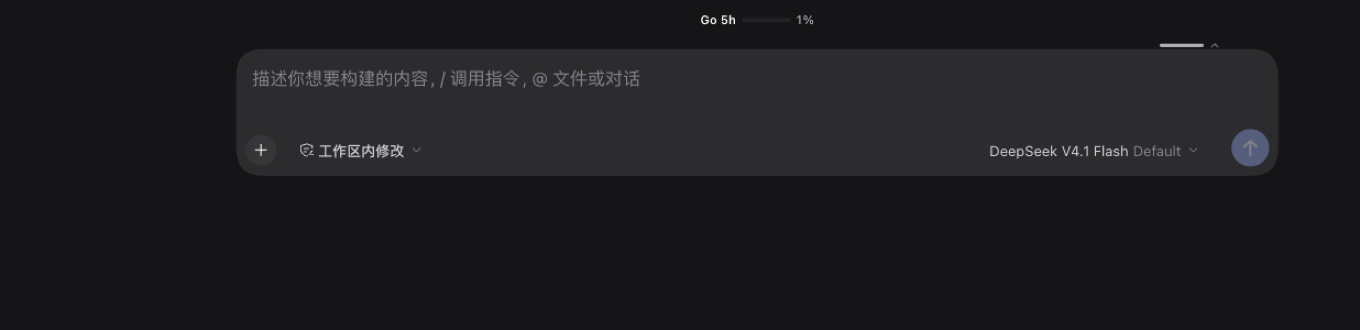
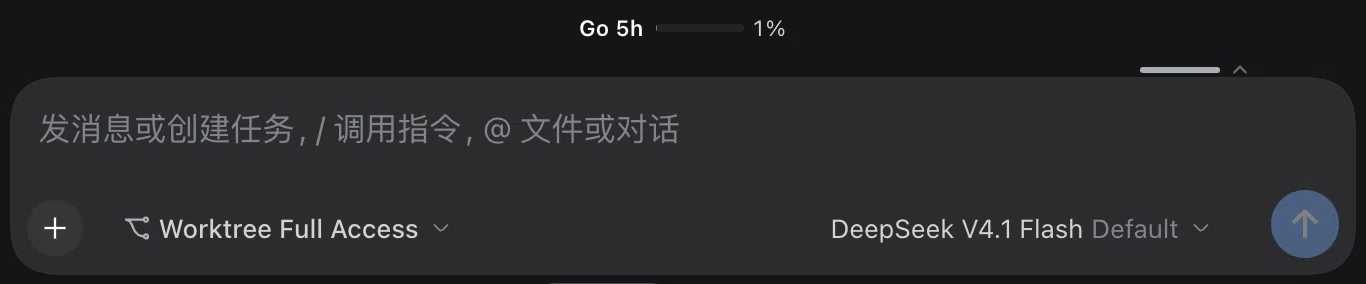
docs(assets): use the screenshots captured from the actual desktop window
Replace the ego-lite captures with 子龙's real-window shots: single, multiline,
single collapsed, multiline collapsed, and the Settings page. The history
browsing image is withdrawn until a real one is available.

diff --git a/docs/RELEASE-CHECKLIST-0.2.0.md b/docs/RELEASE-CHECKLIST-0.2.0.md
@@ -56,7 +56,7 @@
 - [x] 自检：`CHECK_SITE_SKIP_CROSS=dsh-session-titler node scripts/check-site.mjs` → **0 error / 1 warning**。跳过原因：邻居 `dsh-session-titler` 站点 0.2.1 / package.json 0.2.2（另一条发布流水线），与本次无关
 - [x] 部署：`CHECK_SITE_SKIP_CROSS=dsh-session-titler ./scripts/deploy.sh` → 备份 `/opt/1panel/www/sites/dsh.zlmix.com/backups/20261030-232221`，8 条路由 200
 - [x] 线上回读：`/multiline-input/` 的 JSON-LD / `data-version` / `pkg-line` / chip = 0.2.0；图标含 `#4176E6`；首页 JSON-LD / 卡片 = 0.2.0；`sitemap.xml` lastmod = 2026-10-30
-- [x] 截图：重截 5 张（单行 / 多行 / 收起细线 / 历史浏览 / 设置页），更新仓库 `assets/` + `screenshots.json` + README，并同步官网 `assets/shots/`（含重拼 `hero-ml.png`）与新增「0.2.0 新增」展示段；站点提交 `b17d0fd`，部署备份 `20261030-234401`
+- [x] 截图：改用子龙在真实桌面窗口截的 5 张（单行 / 多行 / 单行收起 / 多行收起 / 设置页），更新仓库 `assets/` + `screenshots.json` + README，并同步官网 `assets/shots/`（重拼 `hero-ml.png`）；历史浏览图待子龙补拍后再加；站点提交 `b17d0fd` / `待更新`，部署备份 `20261030-234401`
 
 ## 6. 本机安装（desktop profile）
 

diff --git a/README.md b/README.md
@@ -20,7 +20,7 @@
 
 ![收起后输入区上沿的细线](assets/screenshot-3-collapsed.png)
 
-![↑/↓ 浏览输入历史，tab 显示「历史 2/3」](assets/screenshot-4-history.png)
+![多行模式下收起，仍保留 4 行高度](assets/screenshot-4-collapsed-multiline.png)
 
 ![设置（Cmd+,）→ 多行输入](assets/screenshot-5-settings.png)
 
